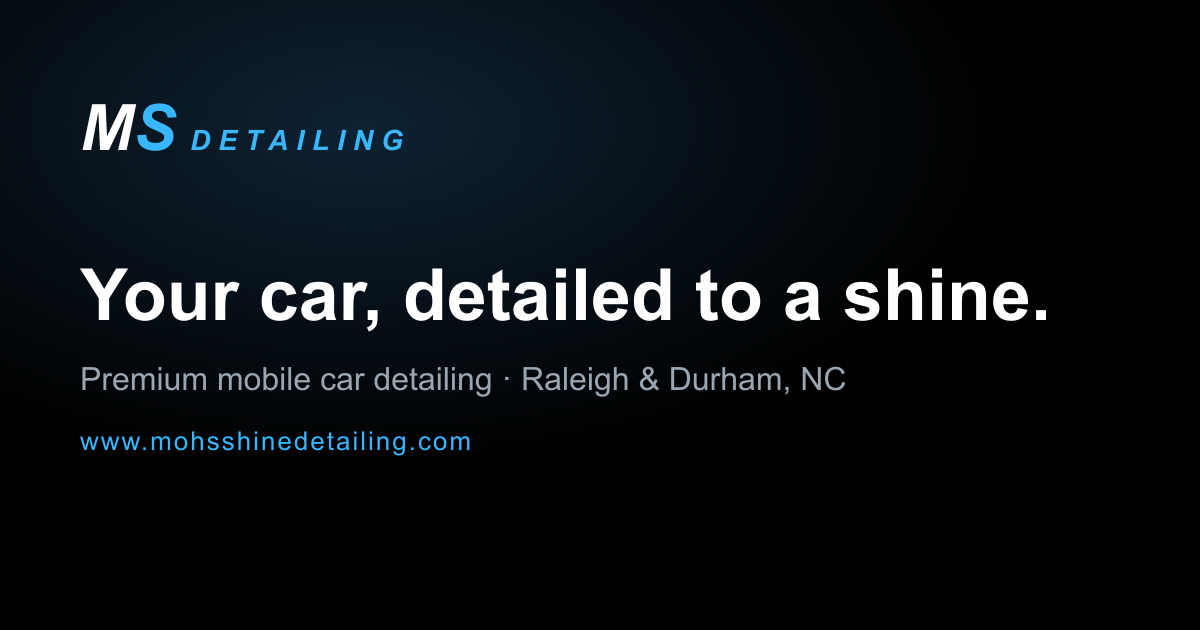
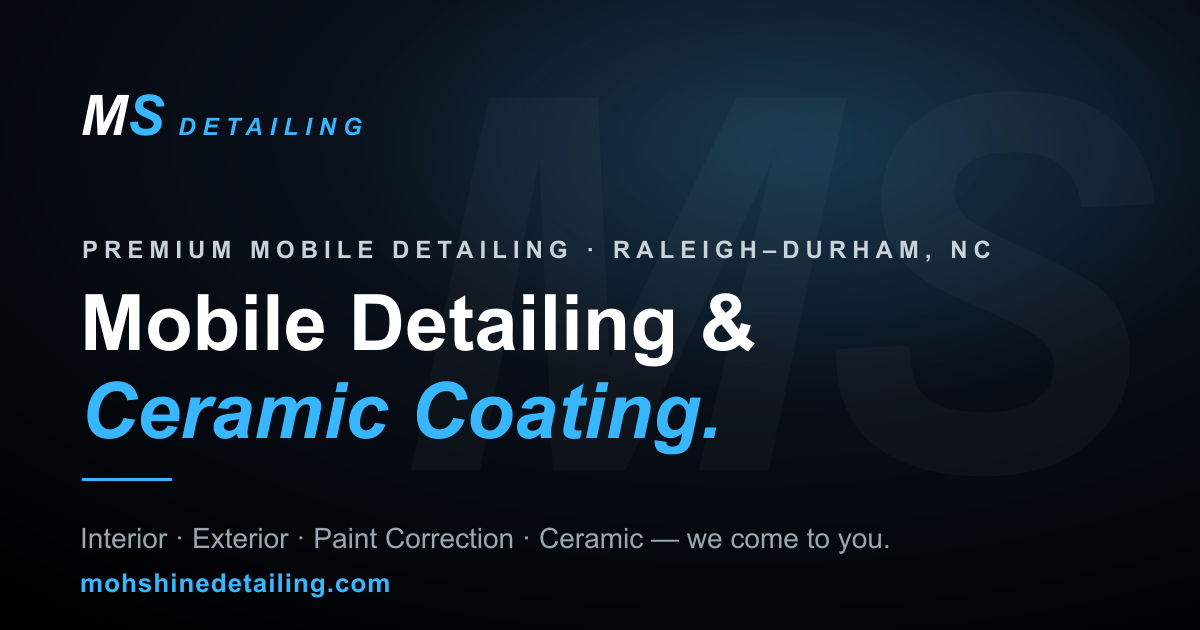
feat: launch polish — premium 404, refreshed OG image, keyword tune
Quality/hardening pass for launch. No brand, pricing, service or contact-data
changes.

- app/not-found.tsx: custom on-brand 404. Cinematic header style, oversized
  faded "404" watermark, BookButton + View Services CTAs and quick links to
  the main sections. Returns a proper 404 status and noindex.

- Open Graph image: rebuilt the og.png template in
  scripts/generate-brand-assets.mjs to reflect the real brand — headline
  "Mobile Detailing & Ceramic Coating", service line, faded MS watermark, and
  the correct mohshinedetailing.com domain (the old card showed a stale
  headline and the wrong www.mohsshinedetailing domain). Regenerated og.png.
  favicon/apple-icon unchanged (the legible MS monogram).

- layout.tsx: tightened the keyword set toward the priority local terms
  (mobile car detailing / ceramic coating / paint correction / interior /
  exterior Raleigh, mobile detailing + ceramic coating Durham).

Verification: build clean (exit 0, 63 routes). The 404 route returns HTTP 404
with noindex and the premium layout; OG meta resolves to the refreshed image;
0 console errors.

Stacked on feat/launch-readiness (PR #7). Merge order: #1 … #7, then #8.

diff --git a/app/not-found.tsx b/app/not-found.tsx
@@ -1,0 +1,83 @@
+import type { Metadata } from "next";
+import Link from "next/link";
+import { Container } from "@/components/ui/Container";
+import { Button } from "@/components/ui/Button";
+import { BookButton } from "@/components/ui/BookButton";
+
+export const metadata: Metadata = {
+  title: "Page not found",
+  description:
+    "That page couldn't be found. Explore our mobile detailing services and service areas across the Raleigh–Durham Triangle.",
+  robots: { index: false, follow: true },
+};
+
+const links = [
+  { label: "Home", href: "/" },
+  { label: "Services", href: "/services" },
+  { label: "Service Areas", href: "/locations" },
+  { label: "Blog", href: "/blog" },
+  { label: "Contact", href: "/contact" },
+];
+
+export default function NotFound() {
+  return (
+    <section className="relative flex min-h-[80svh] items-center overflow-hidden bg-navy-950 pt-28 sm:pt-32">
+      {/* Cinematic background */}
+      <div aria-hidden="true" className="absolute inset-0">
+        <div className="absolute inset-0 bg-gradient-to-br from-navy-800 via-navy-950 to-black" />
+        <div className="absolute left-[55%] top-[20%] h-[70vh] w-[70vh] -translate-x-1/2 rounded-full bg-shine/12 blur-[150px]" />
+        <div className="absolute inset-0 bg-shine-grid bg-[size:72px_72px] opacity-25 [mask-image:radial-gradient(ellipse_at_55%_40%,black,transparent_75%)]" />
+      </div>
+
+      {/* Oversized 404 watermark */}
+      <span
+        aria-hidden="true"
+        className="pointer-events-none absolute inset-0 flex items-center justify-end overflow-hidden pr-[4vw] text-[34vw] font-bold italic leading-none text-white/[0.03] sm:text-[24vw]"
+        style={{ letterSpacing: "-0.05em" }}
+      >
+        404
+      </span>
+
+      <Container className="relative z-10">
+        <div className="max-w-2xl">
+          <p className="eyebrow mb-6 flex items-center gap-3">
+            <span className="inline-block h-[6px] w-[6px] rounded-full bg-shine" />
+            404 — Page not found
+          </p>
+          <h1 className="text-balance text-4xl font-bold leading-[1.02] tracking-tightest text-white sm:text-6xl">
+            This page took a <span className="text-shine italic">wrong turn.</span>
+          </h1>
+          <div className="mt-7 h-px w-16 bg-shine" aria-hidden="true" />
+          <p className="mt-6 max-w-xl text-base font-light leading-relaxed text-chrome sm:text-lg">
+            The page you&apos;re looking for doesn&apos;t exist or has moved. Let&apos;s
+            get you back to a clean detail — pick a destination below.
+          </p>
+
+          <div className="mt-9 flex flex-col gap-3 sm:flex-row">
+            <BookButton size="lg">Book a Detail</BookButton>
+            <Button href="/services" variant="secondary" size="lg">
+              View Services
+            </Button>
+          </div>
+
+          {/* Quick links */}
+          <nav aria-label="Helpful links" className="mt-12 border-t border-chrome-line pt-6">
+            <ul className="flex flex-wrap gap-2">
+              {links.map((l) => (
+                <li key={l.href}>
+                  <Link
+                    href={l.href}
+                    className="inline-flex items-center gap-2 border border-chrome-line bg-white/[0.03] px-4 py-2 text-sm text-white/85 transition-colors hover:border-shine hover:text-shine"
+                  >
+                    {l.label}
+                    <span aria-hidden="true" className="text-shine">→</span>
+                  </Link>
+                </li>
+              ))}
+            </ul>
+          </nav>
+        </div>
+      </Container>
+    </section>
+  );
+}

diff --git a/app/layout.tsx b/app/layout.tsx
@@ -28,13 +28,15 @@ export const metadata: Metadata = {
   description: site.description,
   applicationName: site.name,
   keywords: [
-    "mobile car detailing",
+    "mobile car detailing Raleigh",
     "car detailing Raleigh",
-    "car detailing Durham",
-    "auto detailing NC",
+    "ceramic coating Raleigh",
     "paint correction Raleigh",
-    "interior detailing Durham",
-    "mobile detailing Triangle NC",
+    "interior car detailing Raleigh",
+    "exterior car detailing Raleigh",
+    "mobile detailing Durham NC",
+    "ceramic coating Durham",
+    "auto detailing NC Triangle",
   ],
   authors: [{ name: site.name }],
   creator: site.name,